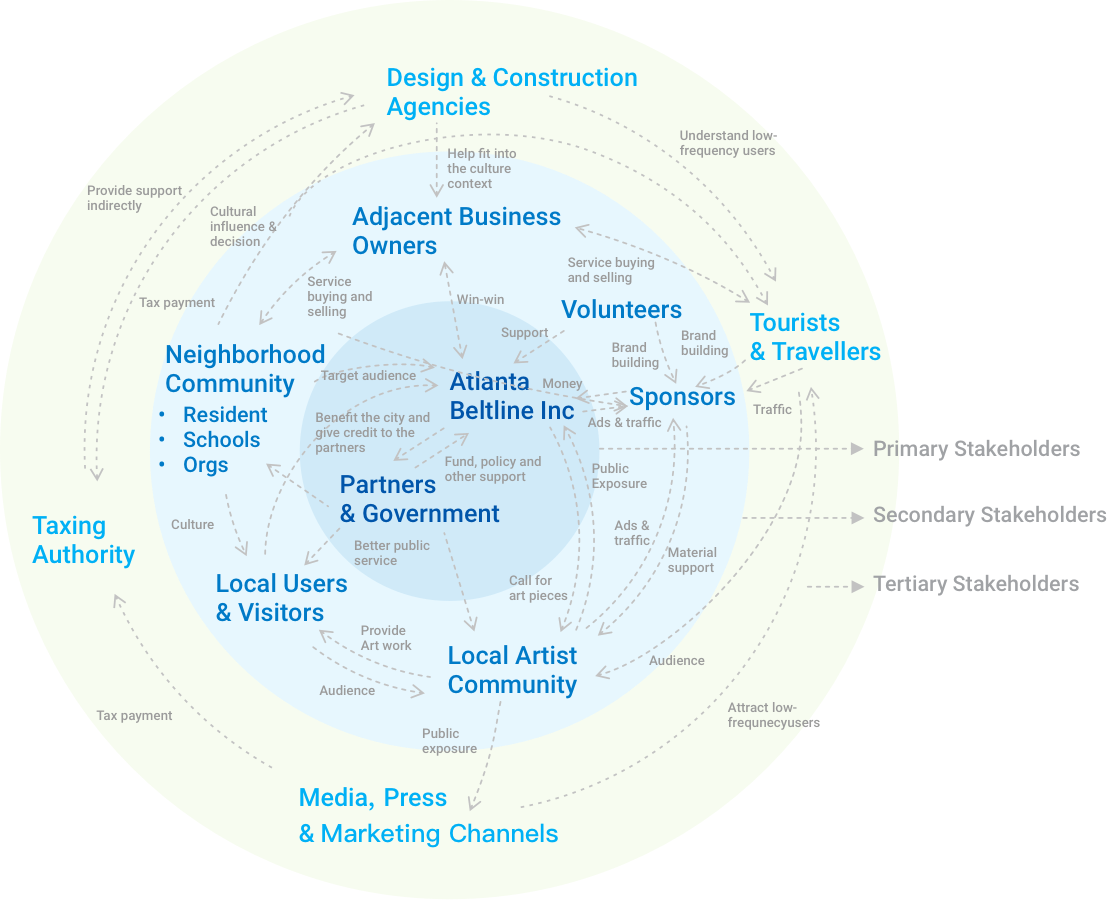
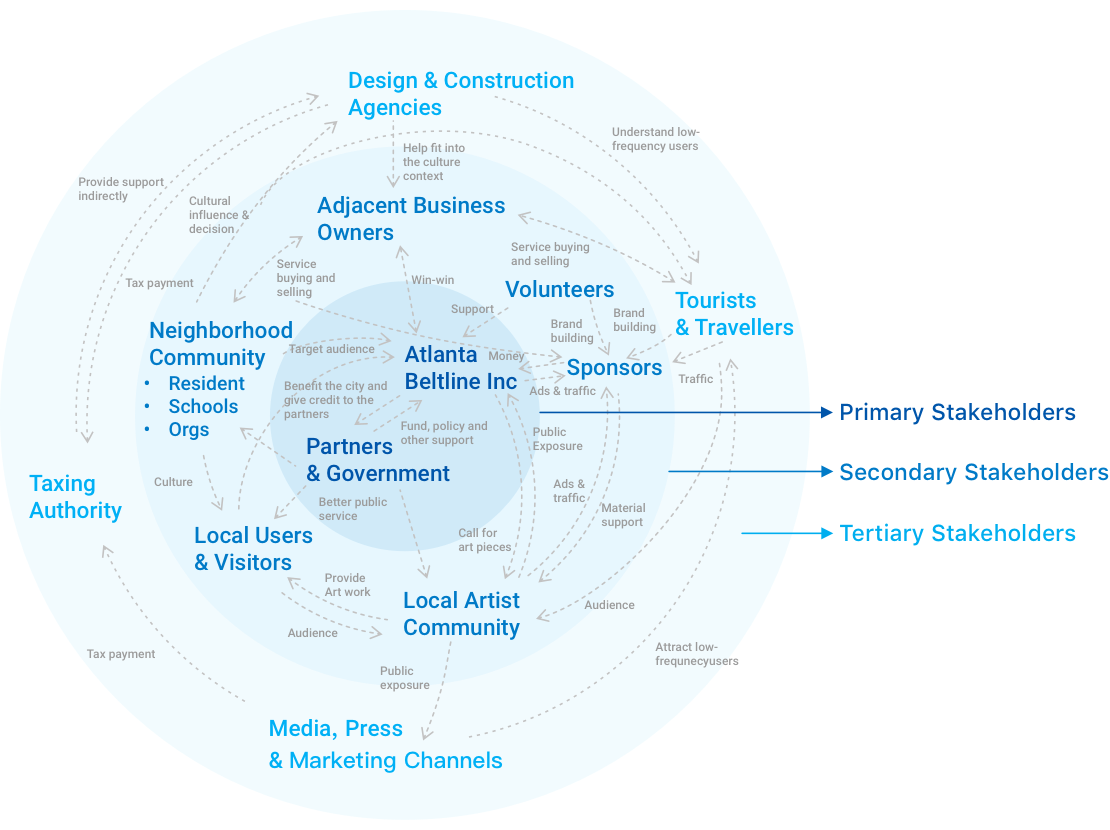
update aoab

diff --git a/aoab.html b/aoab.html
@@ -256,9 +256,40 @@
 								<div id="researcho" style="margin-top: 40px;">
 									<h3>Research Overview</h3>
 									<p>
-										To better delineate our problem space, uncover user needs and discover current pain points, we carried out a series of research.  
+										To better delineate our problem space, uncover user needs and discover current pain points, we carried out a series of research. 
 									</p>
 									<img src="assets/img/portfolio/aoab/researchOverview@2x.jpg">
+								</div>
+								<div id="researchd" style="margin-top: 40px;">
+									<h3>Field Observation</h3>
+									<p style="margin-bottom: 5px;">
+										Through the field observationg of two main trails of Atlanta Beltline, we found following issues:
+									</p>
+									<ul style="margin-bottom: 20px;">
+										<li>
+											It is hard to aquire art information on the trail. Signage is either missing or in a bad maintenance condition.
+										</li>
+										<li>
+											Printed materials including maps, flyers, brochures are only provided at a few locations on the trails. 
+										</li>
+										<li>
+											Visitors cannot obtain art information based on the location, preference and need.
+										</li>
+									</ul>
+									<img src="assets/img/portfolio/aoab/observation@2x.png" style="margin-bottom: 60px;">
+									<h3>Online Research</h3>
+									<h4>2017 Exhibition Key Facts</h4>
+									<p>There were 11 murals, 55 sculptures/installations/pavilions installed on the Beltline. And there were 26 performances actively being performed. However, there are only 2 administrators who currently manage the program, communicate with the artists, operate and maintain the channels that touch the visitors and general public.</p>
+									<img src="assets/img/portfolio/aoab/onlineResearch@2x.jpg">
+									<h4>Current Websites</h4>
+									<h4>Existing Trail Map</h4>
+									<h3>Semi-structured Interviews</h3>
+									<p>We firstly arranged an interview Chris Langley, the Art and Culture Program coordinator of Atlanta Beltline Inc. We hoped to learn current process and procedures getting an artwork installed on the trail and asked for challenges he encountered while managing this process. And then we went out to the eastside trail and interviewed 10 participants who were considered as other types of stakeholders in our project.</p>
+									<img src="assets/img/portfolio/aoab/Interview@2x.png" style="margin-bottom: 60px;">
+									<h3>Stakeholder Relationship Map</h3>
+									<p>In order to better delineate the problem space we should explore and narrow down the scope of this project, we first needed to understand the key stakeholders involved and how they relate to each other.</p>
+									<img src="assets/img/portfolio/aoab/shrm@2x.png">
+									<h3>Competitive Analysis</h3>
 								</div>
 							</div>
 						</ul>

diff --git a/assets/js/sidebar.js b/assets/js/sidebar.js
@@ -15,7 +15,7 @@ var lastId,
 // so we can get a fancy scroll animation
 menuItems.click(function(e){
   var href = $(this).attr("href"),
-      offsetTop = href === "#" ? 0 : $(href).offset().top-179;
+      offsetTop = href === "#" ? 0 : $(href).offset().top-130;
   $('html, body').stop().animate({ 
       scrollTop: offsetTop
   }, 300);
@@ -25,7 +25,7 @@ menuItems.click(function(e){
 // Bind to scroll
 $(window).scroll(function(){
    // Get container scroll position
-   var fromTop = $(this).scrollTop()+180;
+   var fromTop = $(this).scrollTop()+131;
    
    // Get id of current scroll item
    var cur = scrollItems.map(function(){
